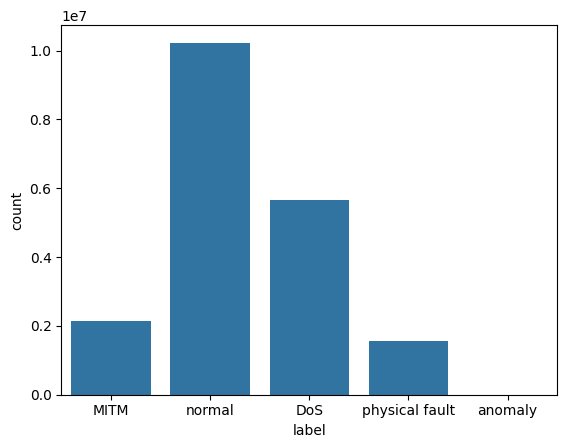
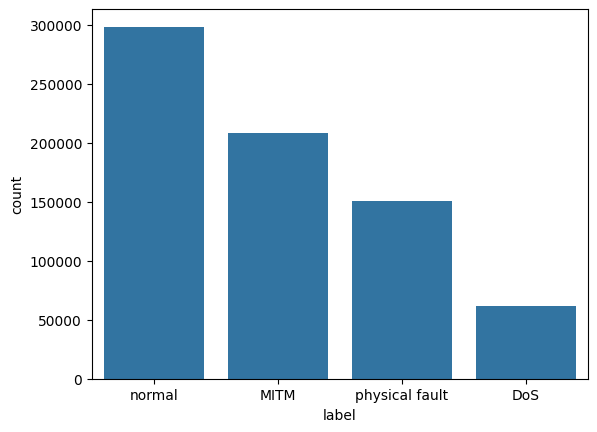
done streamlit

diff --git a/main.py b/main.py
@@ -10,6 +10,7 @@ from sklearn.model_selection import train_test_split
 from sklearn.preprocessing import StandardScaler
 from sklearn.ensemble import RandomForestClassifier
 from sklearn.model_selection import KFold
+from sklearn.preprocessing import LabelEncoder
 import time
 from sklearn.neighbors import KNeighborsClassifier
 import numpy as np
@@ -131,8 +132,25 @@ def main():
 
         return df
     
+    # Move get_model_results function here, outside of any section
+    @st.cache_data
+    def get_model_results(X, y, model_name):
+        return run_cross_validation(X, y, model_name)
+    
+    # Move get_confusion_matrix function here as well
+    @st.cache_data
+    def get_confusion_matrix(X, y, model_name):
+        model = models[model_name]
+        X_train, X_test, y_train, y_test = train_test_split(X, y, test_size=0.2, random_state=15)
+        model.fit(X_train, y_train)
+        y_pred = model.predict(X_test)
+        cm = confusion_matrix(y_test, y_pred)
+        # Get unique labels in correct order
+        labels = np.unique(y)
+        return cm, labels
+
     df = load_data()
-        
+    
     # Prepare data
     X = df.drop(["Label", "Label_n"], axis=1)
     y = df["Label"]
@@ -168,7 +186,8 @@ def main():
     if section == "🔍 Exploratory Analysis":
         st.header("Exploratory Data Analysis")
         st.write("This section will contain exploratory analysis of the data")
-        
+
+        st.subheader("Physical Dataset")
         # show histogram of "Label" column using plotly
         fig = px.histogram(df, x="Label", title="Label Distribution")
         st.plotly_chart(fig)
@@ -184,6 +203,27 @@ def main():
         df_without_normal = df[df["Label"] != "normal"]
         fig = px.histogram(df_without_normal, x="Label", title="Type of Attack Distribution")
         st.plotly_chart(fig)
+
+        st.markdown("---")  # Add a separator
+        
+
+        # Add Network Topology Images
+        st.subheader("Network Dataset")
+        
+        
+        
+        st.image("images_network/label_original.png", 
+                caption="Network Topology - Overview")
+            
+        
+        st.image("images_network/label_distribution.png", 
+                caption="Network Topology - Detailed View")
+            
+        
+        st.image("images_network/2classes.png", 
+                caption="Network Topology - Components")
+    
+        
 
         
 
@@ -264,17 +304,6 @@ def main():
             # Add confusion matrix visualization
             st.subheader("Confusion Matrix")
             
-            @st.cache_data
-            def get_confusion_matrix(X, y, model_name):
-                model = models[model_name]
-                X_train, X_test, y_train, y_test = train_test_split(X, y, test_size=0.2, random_state=15)
-                model.fit(X_train, y_train)
-                y_pred = model.predict(X_test)
-                cm = confusion_matrix(y_test, y_pred)
-                # Get unique labels in correct order
-                labels = np.unique(y)
-                return cm, labels
-                
             cm, labels = get_confusion_matrix(X, y, selected_model)
             
             # Create a heatmap using plotly
@@ -362,7 +391,157 @@ def main():
 
     else:  # Network Data Analysis
         st.header("Network Data Analysis")
-        st.write("This section will contain network data analysis")
-        # Add network data analysis content here
+        st.markdown('The models are trying to predict the type of network attack')
+        
+        # Load and preprocess network data
+        @st.cache_data
+        def load_network_data():
+            df_network = pd.read_csv('dataset/Network datatset/csv/network_mini_dataset.csv')
+            return df_network
+            
+        df_network = load_network_data()
+        
+        # Split features and target
+        X = df_network.drop(['label', 'label_n'], axis=1)
+        y = df_network['label']
+        
+        # Create tabs for different sections
+        tab1, tab2 = st.tabs(["Current Model Performance", "Literature Comparison"])
+
+        with tab1:
+            st.header('Model Performance Analysis')
+            
+            # Model selection with description
+            st.subheader('Model Selection')
+            selected_model = st.selectbox(
+                'Choose a Machine Learning Model',
+                list(models.keys()),
+                help='Select a model to view its performance metrics',
+                key='network_model_select'
+            )
+            
+            st.header(f'Performance Metrics for {selected_model}')
+            st.markdown('The metrics are the average of the 5 folds')
+            
+            # Get results for the selected model
+            model_results, X_data = get_model_results(X, y, selected_model)
+            
+            # Display performance metrics in a grid
+            col1, col2, col3, col4 = st.columns(4)
+            metrics_list = [(k,v) for k,v in model_results.items() if k not in ['execution_time', 'memory_usage']]
+            
+            metrics_columns = [col1, col2, col3, col4]
+            for (metric, value), col in zip(metrics_list, metrics_columns):
+                with col:
+                    st.metric(
+                        label=metric.capitalize(),
+                        value=f"{value['mean']:.4f}",
+                        delta=f"± {value['std']:.4f}",
+                        help=f'Mean and standard deviation for {metric}'
+                    )
+            
+            # Display execution time and memory usage
+            col1, col2 = st.columns(2)
+            
+            with col1:
+                st.subheader("⏱ Execution Time")
+                st.metric(
+                    label="Average Processing Time (seconds)",
+                    value=f"{model_results['execution_time']['mean']:.4f}",
+                    delta=f"± {model_results['execution_time']['std']:.4f}",
+                    help='Average time taken to train and evaluate the model'
+                )
+            
+            with col2:
+                st.subheader("💾 Memory Usage")
+                st.metric(
+                    label="Average Memory Usage (MB)",
+                    value=f"{model_results['memory_usage']['mean']:.2f}",
+                    delta=f"± {model_results['memory_usage']['std']:.2f}",
+                    help='Additional memory consumed during model training and prediction'
+                )
+
+            # Add confusion matrix visualization
+            st.subheader("Confusion Matrix")
+            
+            cm, labels = get_confusion_matrix(X, y, selected_model)
+            
+            # Create a heatmap using plotly
+            fig = go.Figure(data=go.Heatmap(
+                z=cm,
+                x=labels,
+                y=labels,
+                text=cm,
+                texttemplate="%{text}",
+                textfont={"size": 16},
+                colorscale='Blues',
+                showscale=True
+            ))
+            
+            fig.update_layout(
+                xaxis_title="Predicted Label",
+                yaxis_title="True Label",
+                width=800,  # Increased width to accommodate more labels
+                height=600  # Increased height to accommodate more labels
+            )
+            
+            st.plotly_chart(fig)
+
+        with tab2:
+            st.header("📚 Reference Performance Metrics")
+            st.markdown("""
+            This section shows performance metrics from published research papers,
+            demonstrating how different algorithms perform on network datasets.
+            """)
+            
+            col1, col2 = st.columns(2)
+            
+            with col1:
+                st.subheader("Literature Results")
+                research_metrics = {
+                    "Algorithm": ["KNN", "Random Forest", "SVM", "Naive Bayes"],
+                    "Accuracy": [0.77, 0.75, 0.69, 0.75],
+                    "Recall": [0.44, 0.53, 0.99, 0.15],
+                    "Precision": [0.68, 0.56, 0.10, 0.90],
+                    "F1 Score": [0.53, 0.54, 0.20, 0.21]
+                }
+                
+                df_research = pd.DataFrame(research_metrics).set_index("Algorithm")
+                
+                styled_df = df_research.style\
+                    .format({"Accuracy": "{}", "Recall": "{}", 
+                            "Precision": "{}", "F1 Score": "{}"})\
+                    .background_gradient(cmap='Blues', subset=['Accuracy', 'Recall', 'Precision', 'F1 Score'])\
+                    .set_properties(**{'text-align': 'center'})
+                    
+                st.dataframe(styled_df, use_container_width=True)
+
+            with col2:
+                st.subheader("Our Results")
+                our_metrics = {
+                    "Algorithm": [],
+                    "Accuracy": [],
+                    "Recall": [],
+                    "Precision": [],
+                    "F1 Score": []
+                }
+                
+                for model_name in models.keys():
+                    results, _ = get_model_results(X, y, model_name)
+                    our_metrics["Algorithm"].append(model_name)
+                    our_metrics["Accuracy"].append(f"{results['accuracy']['mean']:.2f}")
+                    our_metrics["Recall"].append(f"{results['recall']['mean']:.2f}")
+                    our_metrics["Precision"].append(f"{results['precision']['mean']:.2f}")
+                    our_metrics["F1 Score"].append(f"{results['f1']['mean']:.2f}")
+                
+                df_our = pd.DataFrame(our_metrics).set_index("Algorithm")
+                
+                styled_df_our = df_our.style\
+                    .format({"Accuracy": "{}", "Recall": "{}", 
+                            "Precision": "{}", "F1 Score": "{}"})\
+                    .background_gradient(cmap='Blues', subset=['Accuracy', 'Recall', 'Precision', 'F1 Score'])\
+                    .set_properties(**{'text-align': 'center'})
+                    
+                st.dataframe(styled_df_our, use_container_width=True)
 if __name__ == '__main__':
     main()

diff --git a/readme.md b/readme.md
@@ -287,6 +287,7 @@ Our training results :
 | CatBoost      | 0.76 | 0.65 | 0.73 | 0.67 |
 | Naive Bayes   | 0.71 | 0.50 | 0.35 | 0.41 |
 | SVM           | 0.71 | 0.35 | 0.50 | 0.41 |
+| MLP           | 0.76 | 0.66 | 0.71 | 0.68 |
 
 
 For comparison the paper had these results (we do not know what type of average they used) :
@@ -296,3 +297,6 @@ For comparison the paper had these results (we do not know what type of average 
 | Random Forest | 0.75 | 0.53 | 0.56 | 0.54 |
 | SVM | 0.69 | 0.99 | 0.10 | 0.20 |
 | Naive Bayes | 0.75 | 0.15 | 0.90 | 0.21 |
+
+
+
